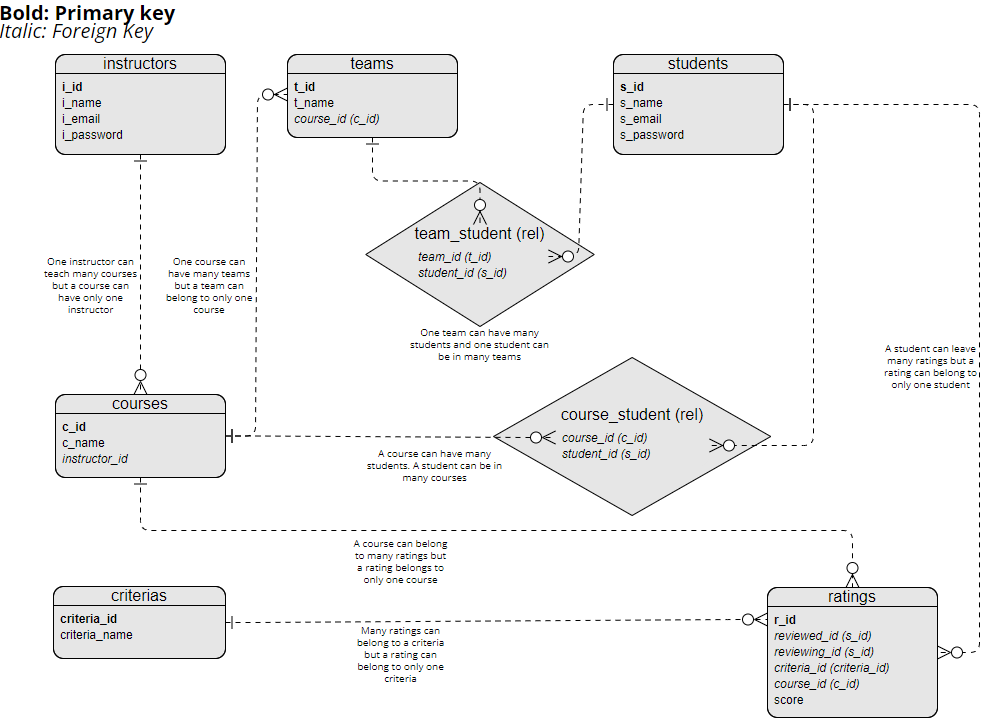
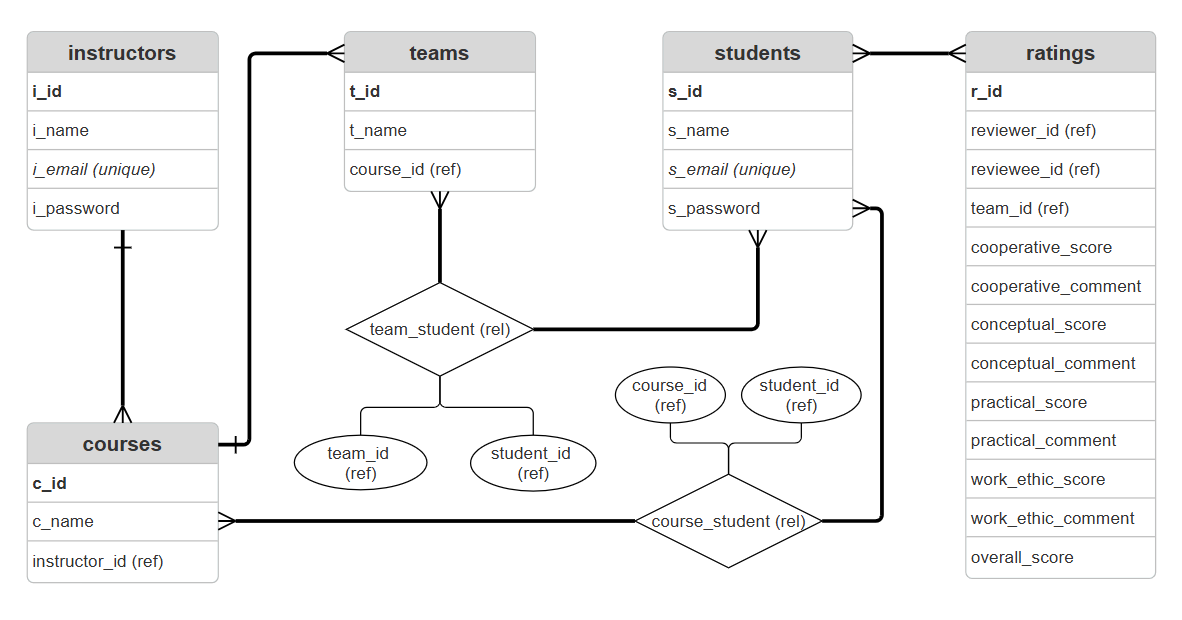
Change ERD according to new DB and add a relationship description

diff --git a/README.md b/README.md
@@ -17,6 +17,21 @@ Working in teams is often emphasized in academic settings to help students devel
 - Automated score sharing for both students and instructors
 - Instructor dashboard for team creation and viewing results from peer assessments
 
+### Database
+![ERD diagram (images/ERD.png)](images/ERD.png)
+
+The database consists of the following relationships:
+- instructors to courses (one-to-many):  
+    1 instructor teaches multiple courses
+- courses to teams (one-to-many):  
+    1 course contains multiple teams
+- students to courses via course_student relation (many-to-many):  
+    a student can be in multiple course, a course can have many students
+- students to teams via team_student (many-to-many):  
+    a student can join many teams (different courses), a team can have many students
+- students to ratings (many-to-many):  
+    a student can leave many ratings, a rating is formed from 2 students
+
 ## Team members
 Name/ GitHub Username > roles 
 
